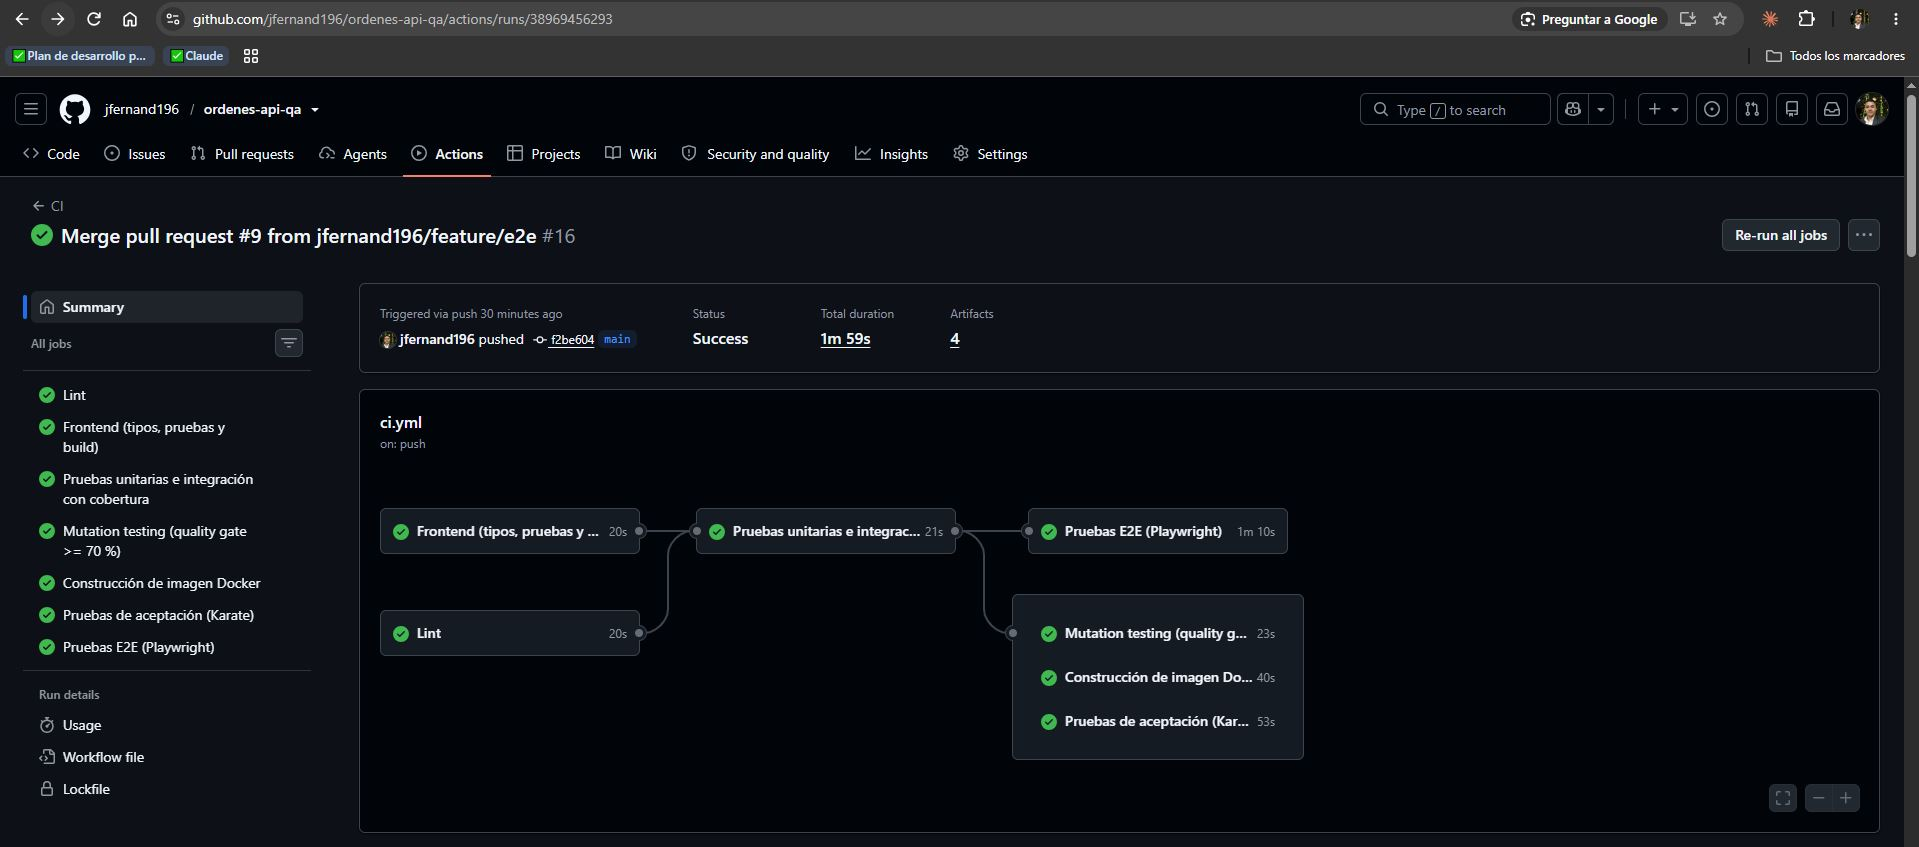
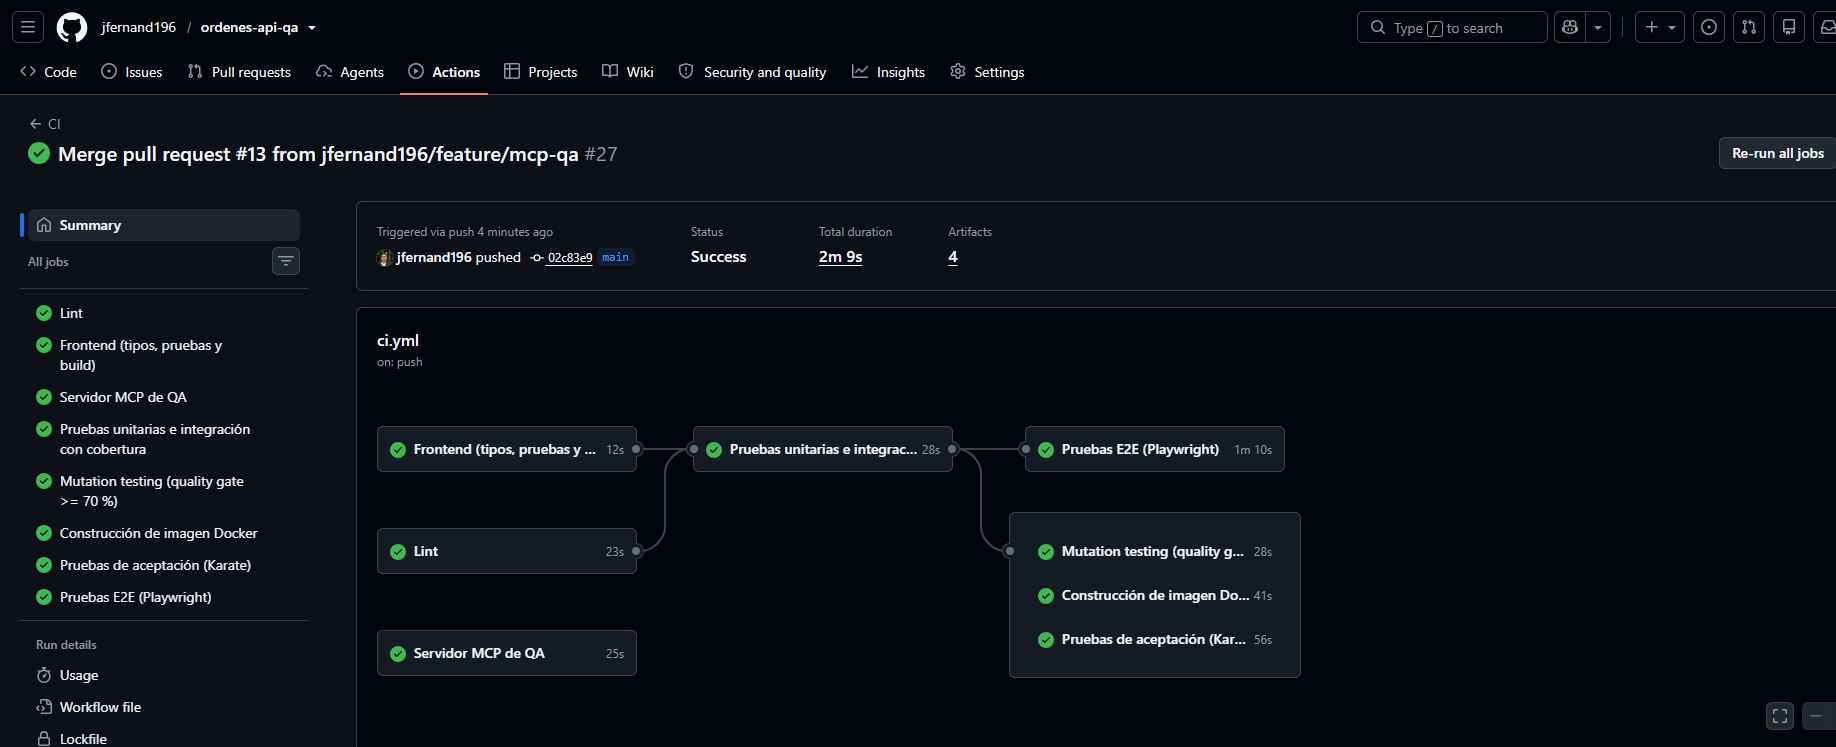
docs: actualiza las evidencias de Karate (22 escenarios) y del pipeline (8 jobs)

diff --git a/README.md b/README.md
@@ -255,7 +255,7 @@ flowchart LR
 
 Ejecuciones: [GitHub Actions](https://github.com/jfernand196/ordenes-api-qa/actions/workflows/ci.yml)
 
-![Pipeline con los 7 jobs en verde](docs/evidence/pipeline.jpg)
+![Pipeline con los 8 jobs en verde](docs/evidence/pipeline.jpg)
 
 ### Cobertura
 
@@ -267,7 +267,7 @@ Ejecuciones: [GitHub Actions](https://github.com/jfernand196/ordenes-api-qa/acti
 
 ### Pruebas de aceptación (Karate)
 
-![Reporte de Karate con 15 escenarios en verde](docs/evidence/karate.jpg)
+![Reporte de Karate con 22 escenarios en verde](docs/evidence/karate.jpg)
 
 ### Pruebas E2E (Playwright)
 
